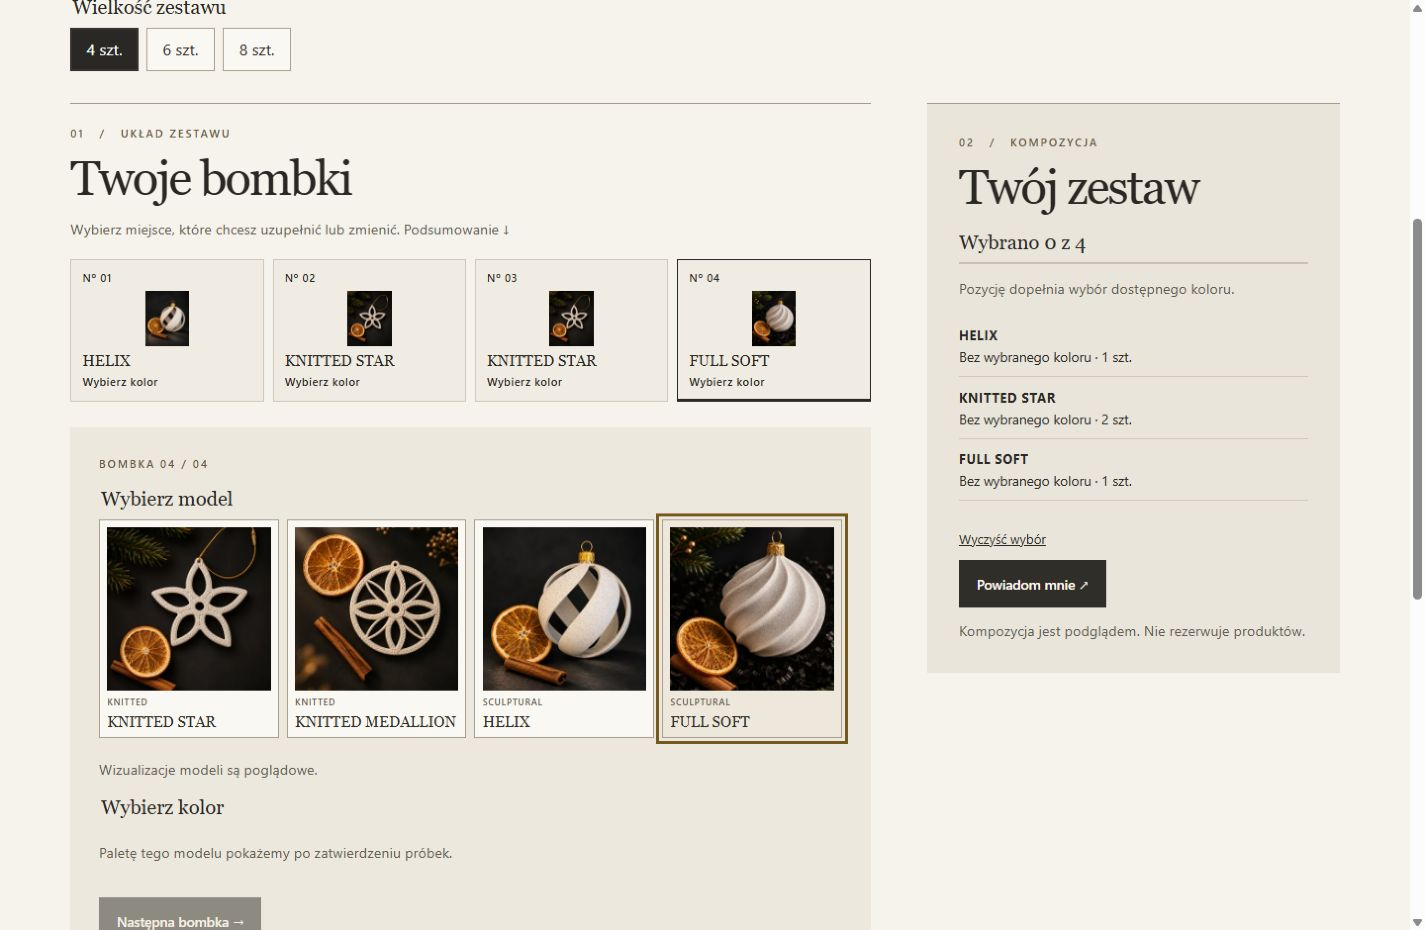
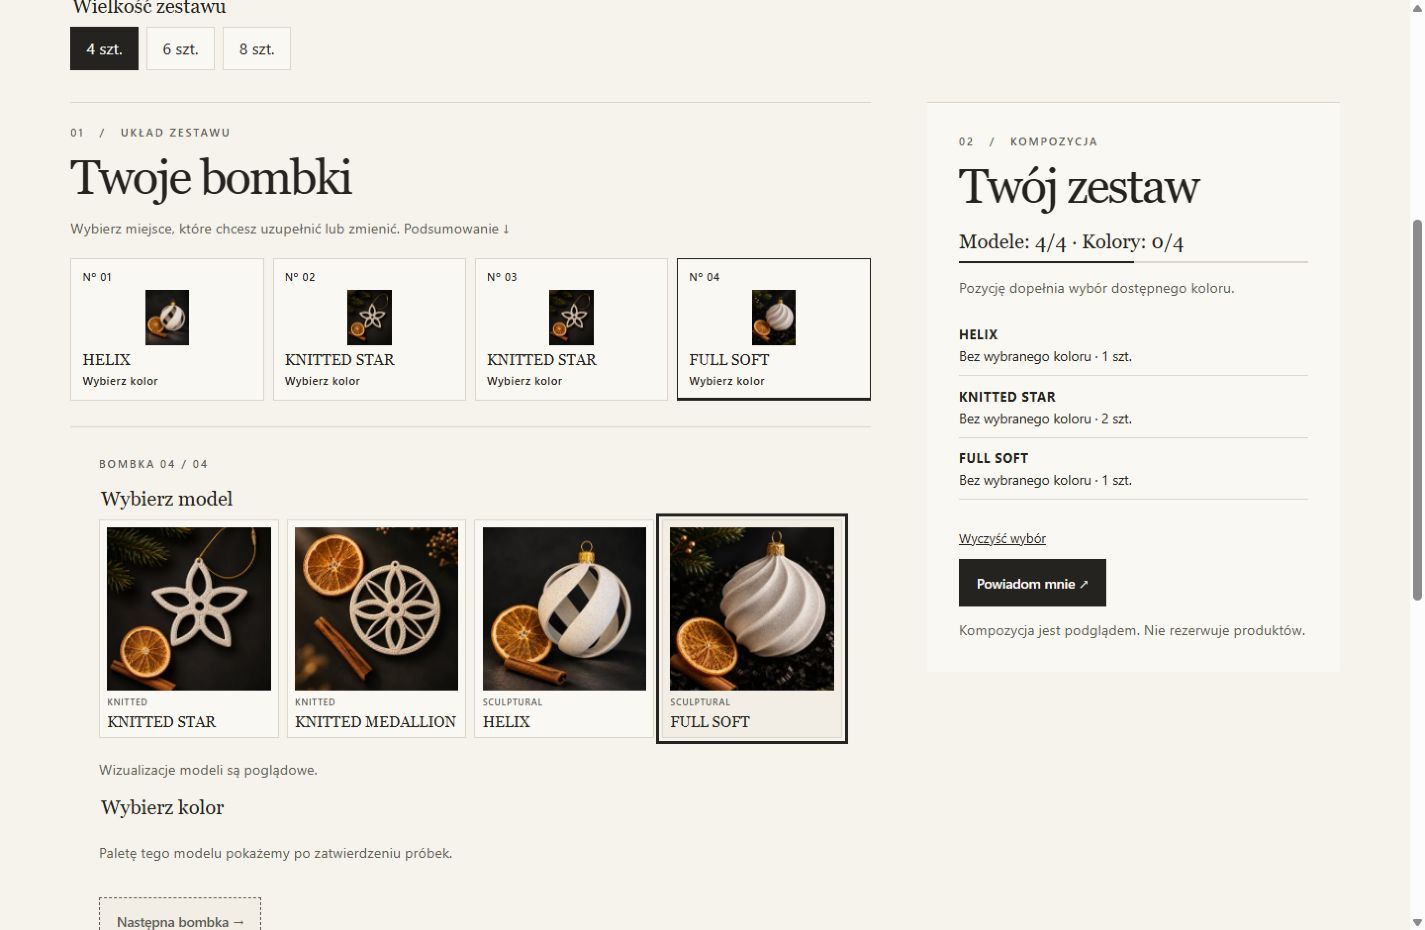
Align the WINTER 26 configurator with R04 and distinguish model and color progress

diff --git a/winter-atelier.css b/winter-atelier.css
@@ -1,11 +1,11 @@
 /* WINTER 26 / composition studio. Scoped to the catalog cards and the atelier. */
-.variant-choice{margin:1.1rem 0;padding:1rem 0;border-block:1px solid #8d817455}.variant-choice h4{font:normal 1.12rem Georgia,serif;margin:0 0 .35em}.variant-choice p{font-size:.87rem;line-height:1.5;color:inherit;margin:.4rem 0}
+.variant-choice{margin:1.1rem 0;padding:1rem 0;border-block:1px solid var(--rule)}.variant-choice h4{font:normal 1.12rem Georgia,serif;margin:0 0 .35em}.variant-choice p{font-size:.87rem;line-height:1.5;color:inherit;margin:.4rem 0}
 .variant-photo{margin:0}.variant-photo img{display:block;max-width:100%;width:100%;max-height:70vh;object-fit:contain}.variant-photo figcaption{margin:.35rem 0}
 .store-cover[hidden],.store-gallery[hidden],.variant-photo[hidden],[data-builder][hidden]{display:none!important}
 .set-entries{display:flex;gap:1.25rem;flex-wrap:wrap}
-.atelier{--ink:#292824;--muted:#635c51;--line:#cfc8bb;--paper:#f6f3ec;color:var(--ink)}
-.atelier-intro{padding:clamp(1.5rem,3.7vw,4rem) 0 2rem;border-bottom:1px solid var(--line)}
-.atelier .eyebrow{font:600 .68rem/1.5 system-ui,sans-serif;letter-spacing:.18em;text-transform:uppercase;color:#6a5941;margin:0 0 .65rem}
+.atelier{color:var(--ink)}
+.atelier-intro{padding:clamp(1.5rem,3.7vw,4rem) 0 2rem;border-bottom:1px solid var(--rule)}
+.atelier .eyebrow{font:600 .68rem/1.5 system-ui,sans-serif;letter-spacing:.18em;text-transform:uppercase;color:var(--muted);margin:0 0 .65rem}
 .atelier h1,.atelier h2,.atelier legend{font-family:Georgia,'Times New Roman',serif;font-weight:400;color:var(--ink)}
 .atelier h1{font-size:clamp(2.7rem,5.8vw,5.4rem);line-height:1.03;letter-spacing:-.045em;margin:.6rem 0 1rem}
 .atelier h2{font-size:clamp(2rem,3.4vw,3.5rem);letter-spacing:-.04em;margin:.25rem 0 .5rem;line-height:1.08}
@@ -16,39 +16,47 @@
 [data-sizes],[data-colors],[data-swatches]{display:flex;gap:.55rem;flex-wrap:wrap}
 .choice{position:relative;display:block;cursor:pointer;margin:0;max-width:100%}
 .choice input{position:absolute;opacity:0;width:1px;height:1px;margin:0}
-.choice input+span{display:flex;align-items:center;min-height:44px;border:1px solid #aaa08f;padding:.55rem .95rem;color:#302d27;background:#faf8f3}
-.choice input:checked+span{outline:2px solid #37342f;outline-offset:-2px;background:#eee8dc}
-.choice input:focus-visible+span{outline:3px solid #77591d;outline-offset:3px}
-.choice input:disabled+span{border-style:dashed;color:#686258;cursor:not-allowed}
-[data-sizes] .choice input:checked+span{background:var(--ink);color:white}
-.swatch{gap:.55rem;font-size:.88rem}.swatch i{height:1em;width:1em;border-radius:50%;border:1px solid #686258;flex:none}
+.choice input+span{display:flex;align-items:center;min-height:44px;border:1px solid var(--rule);padding:.55rem .95rem;color:var(--ink);background:var(--porcelain)}
+.choice input:checked+span{outline:2px solid var(--ink);outline-offset:-2px;background:var(--surface)}
+.choice input:focus-visible+span{outline:3px solid var(--ink);outline-offset:3px}
+.choice input:disabled+span{border-style:dashed;color:var(--muted);cursor:not-allowed}
+[data-sizes] .choice input:checked+span{background:var(--ink);color:var(--porcelain)}
+.swatch{gap:.55rem;font-size:.88rem}.swatch i{height:1em;width:1em;border-radius:50%;border:1px solid var(--muted);flex:none}
 .compose-layout{display:grid;grid-template-columns:minmax(0,1.65fr) minmax(240px,.85fr);gap:clamp(1rem,4vw,4rem);align-items:start}
-.workspace,.composition{min-width:0;border-top:1px solid #a59b8d;padding-top:1.4rem}
+.workspace,.composition{min-width:0;border-top:1px solid var(--rule);padding-top:1.4rem}
 .atelier .help,.composition>p:not(.count):not(.eyebrow),.composition small{font-size:.9rem;line-height:1.5;color:var(--muted)}
 .slots{display:grid;grid-template-columns:repeat(4,minmax(0,1fr));gap:.55rem;margin:1.2rem 0 1.6rem}
-.slot{font:inherit;color:var(--ink);text-align:left;padding:.7rem;display:grid;align-content:start;gap:.35rem;background:#f0ece3;border:1px solid var(--line);cursor:pointer;min-width:0}
+.slot{font:inherit;color:var(--ink);text-align:left;padding:.7rem;display:grid;align-content:start;gap:.35rem;background:var(--porcelain);border:1px solid var(--rule);cursor:pointer;min-width:0}
 .slot[aria-pressed=true]{border-color:var(--ink);box-shadow:inset 0 -2px var(--ink)}
 .slot small,.model-tile small{font:500 .66rem/1.4 system-ui,sans-serif;letter-spacing:.07em}
 .slot strong{font:normal .95rem/1.18 Georgia,serif;overflow-wrap:anywhere}
 .slot img,.slot-mark{width:100%;height:3.5rem;object-fit:contain}
-.slot-mark{display:grid;place-items:center;color:#867a65;font-size:1.6rem;font-weight:300}
-.edit-position{padding:clamp(1rem,2vw,2rem);background:#ede8de}
+.slot-mark{display:grid;place-items:center;color:var(--muted);font-size:1.6rem;font-weight:300}
+.edit-position{border-top:1px solid var(--rule);padding:clamp(1rem,2vw,2rem);background:transparent}
 .edit-position fieldset{margin:1rem 0 1.3rem}
 .model-grid{display:grid;grid-template-columns:repeat(4,minmax(0,1fr));gap:.5rem}
 .model-grid .model-tile{display:grid;align-content:start;gap:.3rem;height:100%;padding:.45rem;min-width:0}
 .model-tile img{width:100%;aspect-ratio:1;object-fit:cover}
-.model-tile strong{font:normal .94rem/1.15 Georgia,serif;overflow-wrap:anywhere}.model-tile small{font-size:.57rem;color:#675a48}
-.composition{background:#eae5db;padding:clamp(1rem,2.2vw,2rem)}
+.model-tile strong{font:normal .94rem/1.15 Georgia,serif;overflow-wrap:anywhere}.model-tile small{font-size:.57rem;color:var(--muted)}
+.composition{background:var(--porcelain);padding:clamp(1rem,2.2vw,2rem)}
 .composition .count{font:normal 1.25rem Georgia,serif;margin:1.15rem 0 .55rem}
-.progress-line{height:2px;background:#c8c0b0}.progress-line span{height:100%;display:block;background:#50473b}
-.composition ul{list-style:none;padding:0;margin:1rem 0}.composition li{padding:.7rem 0;border-bottom:1px solid var(--line);display:grid;gap:.25rem}
+.progress-line{height:2px;background:var(--rule)}.progress-line span{height:100%;display:block;background:var(--ink)}
+.composition ul{list-style:none;padding:0;margin:1rem 0}.composition li{padding:.7rem 0;border-bottom:1px solid var(--rule);display:grid;gap:.25rem}
 .composition li strong{font-size:.8rem;letter-spacing:.06em}.composition li span{font-size:.85rem}
-.ink-button{display:inline-block;background:#302e29;border:1px solid #302e29;color:#fff9ef;text-decoration:none;font:500 .85rem/1.35 system-ui,sans-serif;padding:.85rem 1.05rem;cursor:pointer}
-.ink-button:disabled,.reset-set:disabled{opacity:.5;cursor:default}
+.ink-button{display:inline-block;background:var(--ink);border:1px solid var(--ink);color:var(--porcelain);text-decoration:none;font:500 .85rem/1.35 system-ui,sans-serif;padding:.85rem 1.05rem;cursor:pointer}
+.ink-button:disabled{color:var(--muted);background:var(--surface);border:1px dashed var(--muted);cursor:not-allowed}
 .composition small{display:block;margin-top:.8rem}.composition .reset-set{display:block;font:inherit;font-size:.82rem;min-height:44px;padding:0;border:0;background:none;text-decoration:underline;color:inherit}
 .duet-link{padding:2rem 0}.duet-link a{color:inherit}
-@media(max-width:760px){.compose-layout{grid-template-columns:minmax(0,1fr)}.slots,.model-grid{grid-template-columns:repeat(2,minmax(0,1fr))}.slot{grid-template-columns:1fr 1.8rem;align-items:center}.slot strong,.slot small:last-child{grid-column:1/-1}.slot img,.slot-mark{height:1.8rem}.atelier h1{font-size:clamp(2.4rem,10vw,3.3rem)}.atelier-intro{padding-top:1rem}.edit-position{padding:.8rem}}
+@media(max-width:760px){.compose-layout{grid-template-columns:minmax(0,1fr)}.slots,.model-grid{grid-template-columns:repeat(2,minmax(0,1fr))}.slot{grid-template-columns:1fr 1.8rem;align-items:center}.slot strong,.slot small:last-child{grid-column:1/-1}.slot img,.slot-mark{height:1.8rem}.atelier h1{font-size:clamp(2.4rem,10vw,3.3rem)}.atelier-intro{padding-top:1rem}.edit-position{border-top:1px solid var(--rule);padding:.8rem}}
 
-.atelier .help a{color:inherit;text-underline-offset:.2em}.photo-pending{padding:2rem 1rem;background:#ede8de;color:#50483e;text-align:center}.composition{scroll-margin-top:1rem}
+.atelier .help a{color:inherit;text-underline-offset:.2em}.photo-pending{padding:2rem 1rem;background:var(--porcelain);color:var(--ink);text-align:center}.composition{scroll-margin-top:1rem}
 
-.atelier-confirm{border:1px solid #a59b8d;background:#f6f3ec;color:#292824;padding:1.6rem;width:min(26rem,90vw);margin:auto}.atelier-confirm::backdrop{background:#24201888}.atelier-confirm h2{font-size:1.75rem}.atelier-confirm form{display:flex;gap:1rem;flex-wrap:wrap;align-items:center;margin-top:1.4rem}.atelier-confirm .reset-set{font:inherit;background:none;color:inherit;border:0;text-decoration:underline;min-height:44px;cursor:pointer}
+.atelier-confirm{border:1px solid var(--rule);background:var(--porcelain);color:var(--ink);padding:1.6rem;width:min(26rem,90vw);margin:auto}.atelier-confirm::backdrop{background:color-mix(in srgb,var(--ink) 55%,transparent)}.atelier-confirm h2{font-size:1.75rem}.atelier-confirm form{display:flex;gap:1rem;flex-wrap:wrap;align-items:center;margin-top:1.4rem}.atelier-confirm .reset-set{font:inherit;background:none;color:inherit;border:0;text-decoration:underline;min-height:44px;cursor:pointer}
+
+@media(hover:hover){
+  .choice:hover input:not(:disabled)+span,.slot:not([aria-pressed=true]):hover{border-color:var(--ink)}
+  .ink-button:not(:disabled):hover{box-shadow:inset 0 -3px var(--champagne)}
+}
+.atelier :is(.slot,.ink-button,.reset-set,.help a):focus-visible{outline:3px solid var(--ink);outline-offset:3px}
+
+.atelier .reset-set:disabled{color:var(--muted);text-decoration:none;cursor:not-allowed}

diff --git a/winter-config.js b/winter-config.js
@@ -113,8 +113,9 @@ if (typeof document !== 'undefined') {
       const next=get('[data-next]');next.disabled=active===size-1;
       next.onclick=()=>{active++;draw();get('[data-slots]').children[active].focus()};
       const {done,groups}=summary(data,slots);
-      get('[data-count]').textContent='Wybrano '+done+' z '+size;
-      get('.progress-line span').style.width=(done/size*100)+'%';
+      const models=groups.reduce((count,group)=>count+group.count,0);
+      get('[data-count]').textContent='Modele: '+models+'/'+size+' · Kolory: '+done+'/'+size;
+      get('.progress-line span').style.width=((models+done)/(2*size)*100)+'%';
       get('[data-summary-note]').textContent=done===size?'Kompozycja kompletna.':groups.length?'Pozycję dopełnia wybór dostępnego koloru.':'Twoje formy pojawią się tutaj.';
       get('[data-summary]').replaceChildren(...groups.map(g=>{const li=el('li');li.append(el('strong',g.name),el('span',g.label+' · '+g.count+' szt.'));return li}));
       const rule=data.sizes.find(s=>s.size===size);

diff --git a/winter-26.css b/winter-26.css
@@ -1,5 +1,5 @@
 /* WINTER 26 only: approved R04 layout and palette. */
-.winter-page { --burgundy: #632d3b; --paper: #faf8f3; --cream: #faf8f3; --ink: #25231f; --surface: #f2eee6; --muted: #625d54; --rule: #dcd6cc; }
+.winter-page { --burgundy: #632d3b; --porcelain: #faf8f3; --paper: var(--porcelain); --cream: var(--porcelain); --ink: #25231f; --surface: #f2eee6; --muted: #625d54; --rule: #dcd6cc; }
 [hidden] { display: none !important; }
 .skip-link { position: fixed; top: -120px; left: 20px; z-index: 200; padding: 15px 24px; background: var(--paper); color: var(--ink); }
 .skip-link:focus { top: 12px; }

diff --git a/docs/WINTER26_CONFIGURATOR_DECISION.md b/docs/WINTER26_CONFIGURATOR_DECISION.md
@@ -6,7 +6,7 @@
 
 Z katalogu prowadzą trzy wejścia do **jednej** strony Kwartetu: [4](../winter-zestaw-4.html?size=4#kompozycja), [6](../winter-zestaw-4.html?size=6#kompozycja) i [8](../winter-zestaw-4.html?size=8#kompozycja). Dotychczasowy adres działa bez parametrów (4). [Duet](../winter-zestaw-2.html) pozostaje zapowiedzią. W każdym miejscu można zmienić model, a po zatwierdzeniu palety — kolor. Zmiana modelu czyści kolor wyłącznie tej pozycji. Powiększenie zestawu zachowuje wybory; zmniejszenie wymaga potwierdzenia, jeśli odrzuci wybrane pozycje. Escape zachowuje wybory. Wyzerowanie również wymaga potwierdzenia. Podsumowanie grupuje identyczne pozycje; poszczególne sztuki nadal edytuje się osobno.
 
-Licznik uwzględnia tylko kompletną parę model–kolor dostępną w ramach opublikowanego stanu. Można dziś wybrać cztery modele i nadal zobaczyć „Wybrano 0 z 4” — kolory nie są zatwierdzone. Kompozycja jest przechowywana wyłącznie w pamięci otwartej strony; odświeżenie ją usuwa. „Powiadom mnie” prowadzi na istniejącą listę, nie przesyła składu ani nie rezerwuje egzemplarzy. Nie ma współdzielonego stanu między klientami, obietnicy wysyłki ani oferty opakowania. Modelowe miniatury są wizualizacjami poglądowymi; żadnego barwienia zdjęć.
+Podsumowanie liczy osobno miejsca z modelem i miejsca z dostępnym kolorem. Cztery wybrane modele bez potwierdzonej palety dają „Modele: 4/4 · Kolory: 0/4”. Kompozycja jest kompletna dopiero po wybraniu dostępnego koloru dla każdego modelu. Kompozycja jest przechowywana wyłącznie w pamięci otwartej strony; odświeżenie ją usuwa. „Powiadom mnie” prowadzi na istniejącą listę, nie przesyła składu ani nie rezerwuje egzemplarzy. Nie ma współdzielonego stanu między klientami, obietnicy wysyłki ani oferty opakowania. Modelowe miniatury są wizualizacjami poglądowymi; żadnego barwienia zdjęć.
 
 ## Jedno źródło danych
 
@@ -53,6 +53,16 @@ Wprowadzenie wariantów: zatwierdzić próbkę i wariant powiązane ID, przypisa
 ## Odbiór interfejsu
 
 [Desktop](previews/atelier-desktop.jpg) · [390 px](previews/atelier-mobile390.jpg) · [320 px](previews/atelier-mobile320.jpg). Sprawdzono w Chrome brak poziomego przewijania, natywne radia strzałkami i spacją, przełączanie rozmiarów, powtórzenia/edycję, Escape w oknie utraty wyborów, potwierdzenie zmniejszenia i reset. W prywatnej próbie (poza wydaniem) rzeczywisty UI osiągnął 4/4, zablokował drugą sztukę wyczerpanego SKU, obsłużył dwie sztuki innego SKU i pokazał cenę/zdjęcie wybranej próbki oraz komunikat przy braku fotografii. Przypadki 6/6 i 8/8, inne SKU, puste i nadmiarowe wybory pokrywają testy reguł. Testy generatora LF/CRLF, starej bramki, cookies, niezmienionego hero i referencji należą do builda #18.
+
+### Korekta R02 względem PR #18
+
+| Szerokość w Chrome | Kwartet z PR #18 | Konfigurator R02 |
+|---|---|---|
+| 1440 px | [Karta zestawu](previews/quartet-base-1440.jpg) | [Edycja i podsumowanie](previews/atelier-desktop.jpg) |
+| 390 px | [Karta zestawu](previews/quartet-base-390.jpg) | [Miejsca i edytor](previews/atelier-mobile390.jpg) · [Podsumowanie](previews/atelier-summary390.jpg) |
+| 320 px | [Karta zestawu](previews/quartet-base-320.jpg) | [Podsumowanie i nieaktywna nawigacja](previews/atelier-mobile320.jpg) |
+
+Pozostaje tło karty z PR #18. Panel edycji odsłania to samo tło, sloty i podsumowanie mają wspólną porcelanę (#faf8f3), wybrany model i fokus klawiatury — grafit (#25231f). W Chrome sprawdzono obramowanie po najechaniu, zaznaczenie, widoczny fokus i nieaktywny przycisk ostatniej pozycji. Przy wszystkich trzech szerokościach zawartość obu stron mieści się w obszarze przewijania bez przewijania w poziomie. W galerii HELIX sprawdzono zmianę ujęcia, otwarcie drugiego kadru Enterem i powrót fokusu do powiększanego kadru po Escape.
 
 ## Decyzje właściciela przed sprzedażą
 
